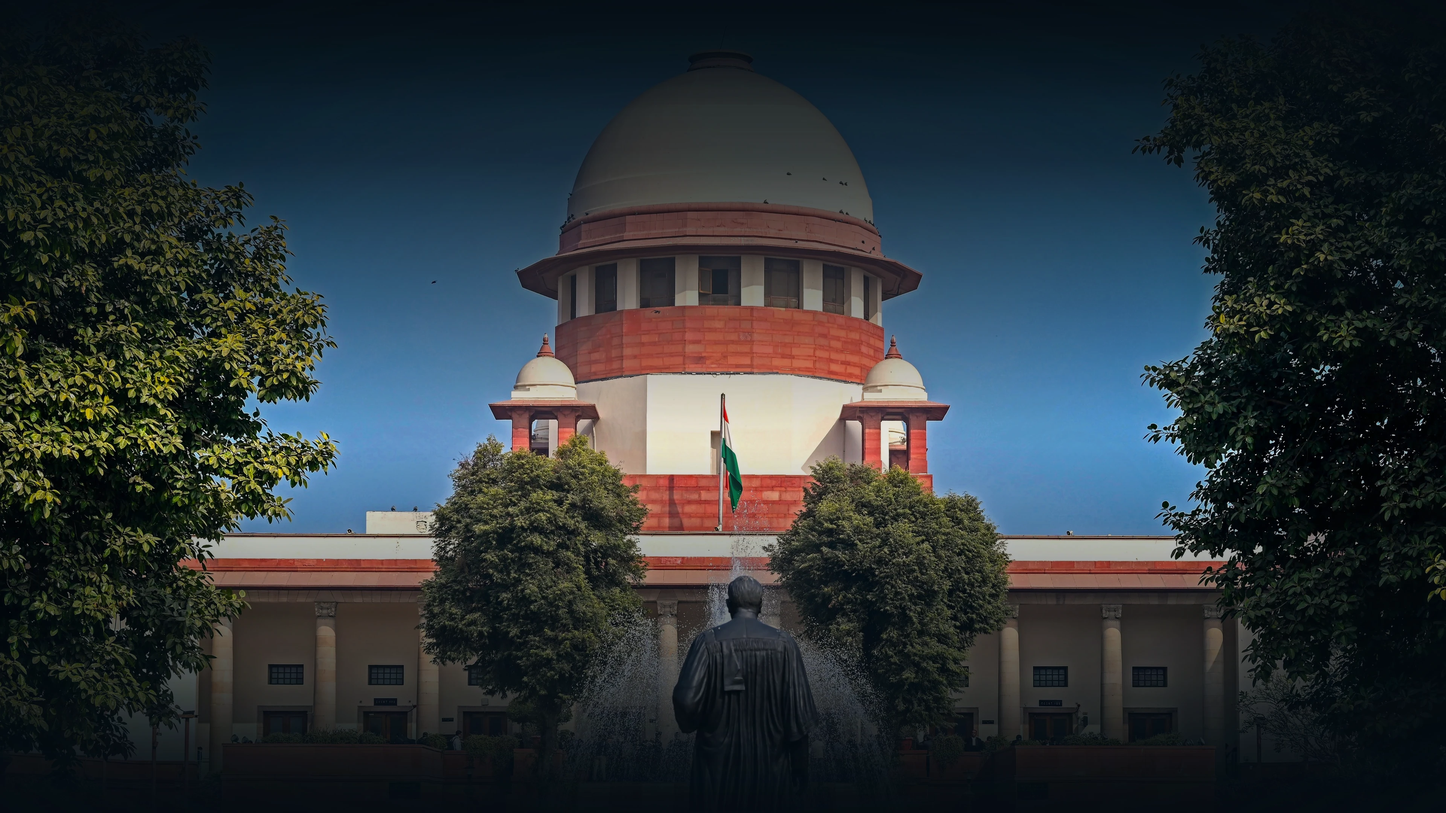
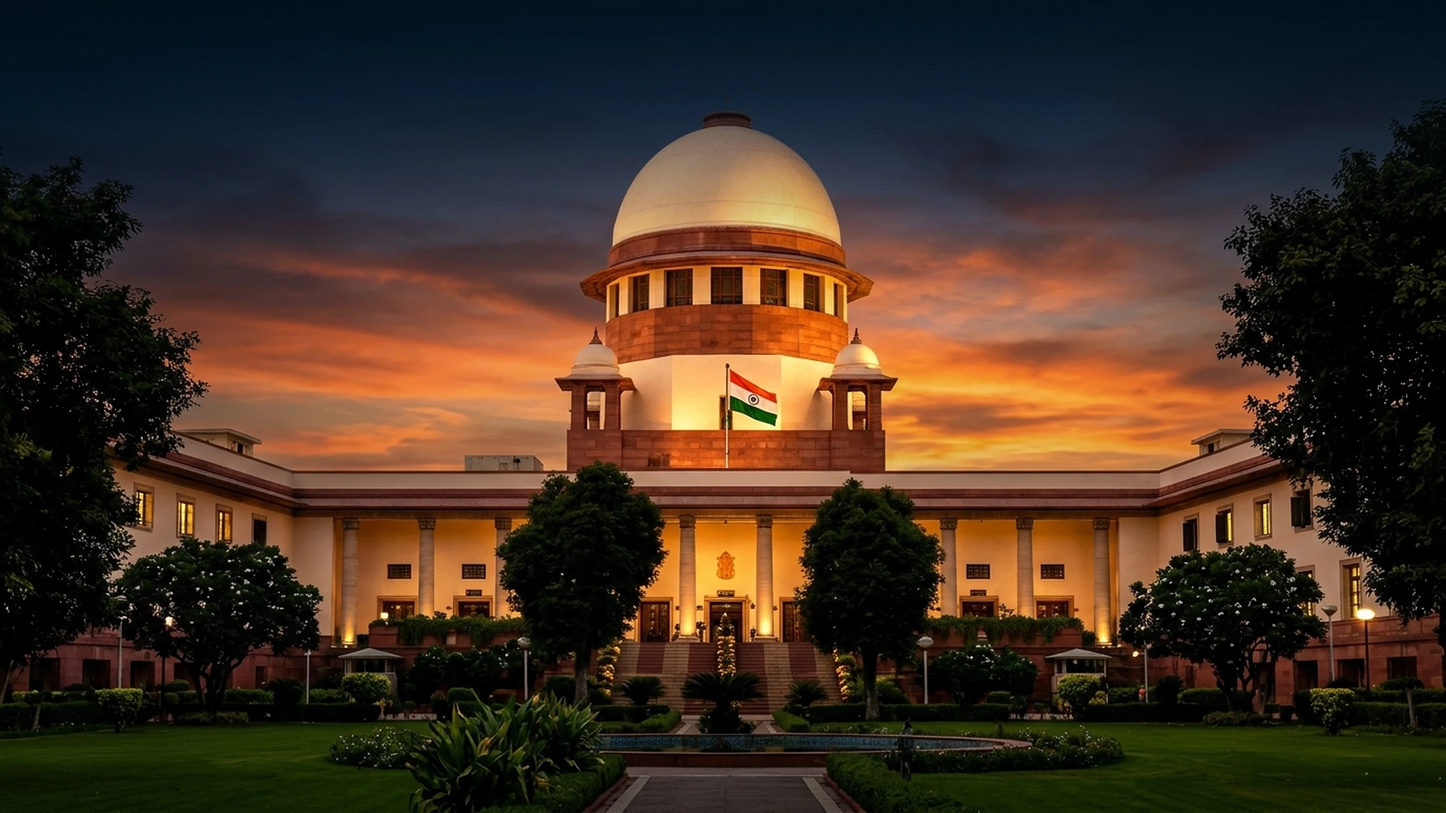
feat: replace hero background with 4K authentic Supreme Court sunset photograph

diff --git a/src/components/homepage/HeroBackground.tsx b/src/components/homepage/HeroBackground.tsx
@@ -19,7 +19,7 @@ export const HeroBackground: React.FC = () => {
         className="relative w-full h-full"
       >
         <Image
-          src="/assets/nyaylink/architecture/hero-supreme-court-actual-4k.webp"
+          src="/assets/nyaylink/architecture/hero-supreme-court-sunset-4k.webp"
           alt="Supreme Court of India monumental architecture, Tilak Marg, New Delhi"
           fill
           priority
